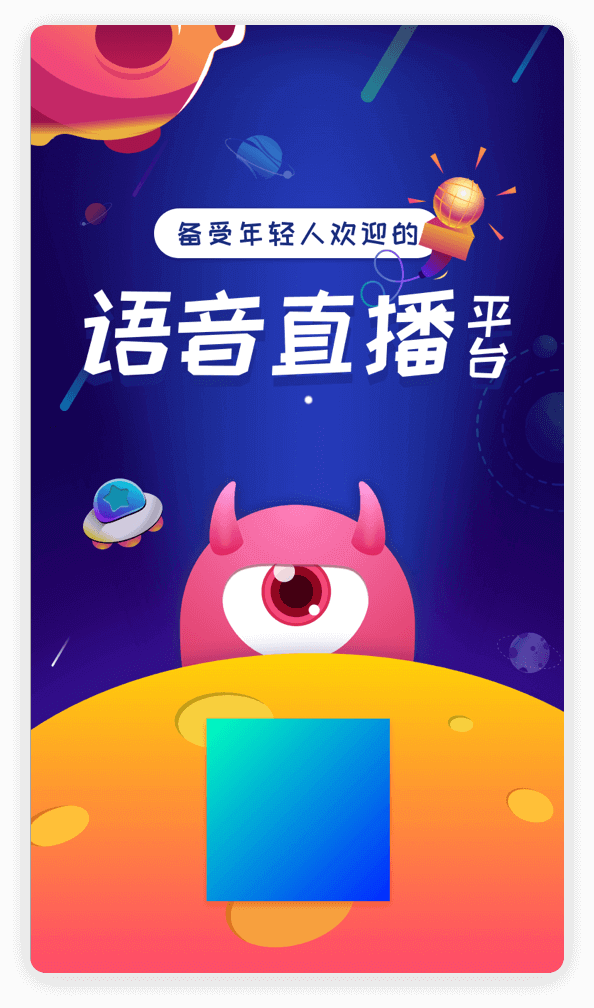
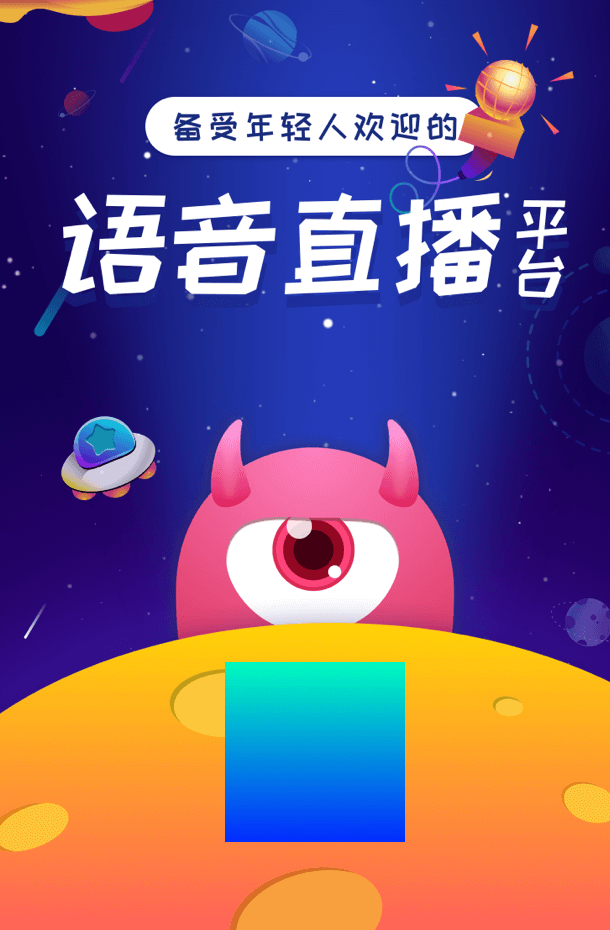
新增分享qq空间

diff --git a/public/m/css/distribute_extend.css b/public/m/css/distribute_extend.css
@@ -3,22 +3,23 @@ html{
 }
 .extend_box{
     position: relative;
-    width: 5.94rem;
-    height: 10.08rem;
-    margin: 0.2rem auto;
+    width: 6.1rem;
+    height: 9.3rem;
+    margin: 0.34rem auto;
+    border-radius: 0.1rem;
+    overflow: hidden;
 }
 .extend_img{
     position: absolute;
     top:0;
     left: 0;
-    width: 5.94rem;
-    height: 10.08rem;
+    width: 6.1rem;
+    height: 9.3rem;
 }
 .qr_code{
     position: absolute;
-    bottom: 1.18rem;
-    left: 50%;
-    margin-left: -0.8rem;
+    bottom: 0.98rem;
+    left: 2.35rem;
     width: 1.6rem;
     height:  1.6rem;
 }
@@ -28,23 +29,65 @@ html{
     bottom: 0;
     left: 0;
     width: 100%;
-    height:  0.9rem;
+    height:  0.7rem;
     text-align: center;
     font-size: 0.2rem;
     color: #FFFFFF;
 
 }
-.extend_share{
+.extend_share_box{
     position: fixed;
+    display: flex;
+    flex-direction: column;
+    justify-content: center;
+    align-items: center;
     bottom: 0;
     left: 0;
+    width: 100%;
+    padding-top: 0.3rem;
+    background: #FFFFFF;
+    box-shadow: 0 -8px 20px 0 rgba(0,0,0,0.04);
+}
+.extend_share_title{
+    position: relative;
+    width: 100%;
+    height: 0.6rem;
+    display: flex;
+    justify-content: center;
+    align-items: center;
+    font-size: 0.26rem;
+    color: #6A6A6A;
+}
+.extend_share_title span{
+    position: relative;
+    padding: 0 0.3rem;
+}
+
+.extend_share_title span:before,.extend_share_title span:after {
+    content: '';
+    position: absolute;
+    top:50%;
+    width: 1.4rem;
+    height: 1px;
+    background-color: #E2E2E2;
+
+}
+.extend_share_title span:before{
+    left:0;
+    transform: translateX(-100%);
+}
+.extend_share_title span:after{
+    right: 0;
+    transform: translateX(100%);
+}
+
+.extend_share{
     display: flex;
     justify-content: center;
     align-items: center;
     width: 100%;
-    height: 1.8rem;
+    height: 1.5rem;
     background: #FFFFFF;
-    box-shadow: 0 -8px 20px 0 rgba(0,0,0,0.04);
 }
 .extend_share li{
     flex: 1;
@@ -54,27 +97,11 @@ html{
     align-items: center;
 }
 .extend_share li img{
-    width: 0.8rem;
-    height: 0.8rem;
+    width: 0.64rem;
+    height: 0.64rem;
 }
 .extend_share li span{
     font-size: 0.22rem;
     color: #7F7F7F;
     padding-top: 0.1rem;
-}
-
-.toast_text_box{
-    top:50%;
-    left:50%;
-    transform: translate(-50%,-50%);
-    position: fixed;
-    align-items: center;
-    justify-content: center
-}
-.toast_text{
-    padding: 7px 10px;
-    background-color: rgba(0,0,0,0.6);
-    border-radius: 4px;
-    font-size: 14px;
-    color: #FFFFFF;
 }
